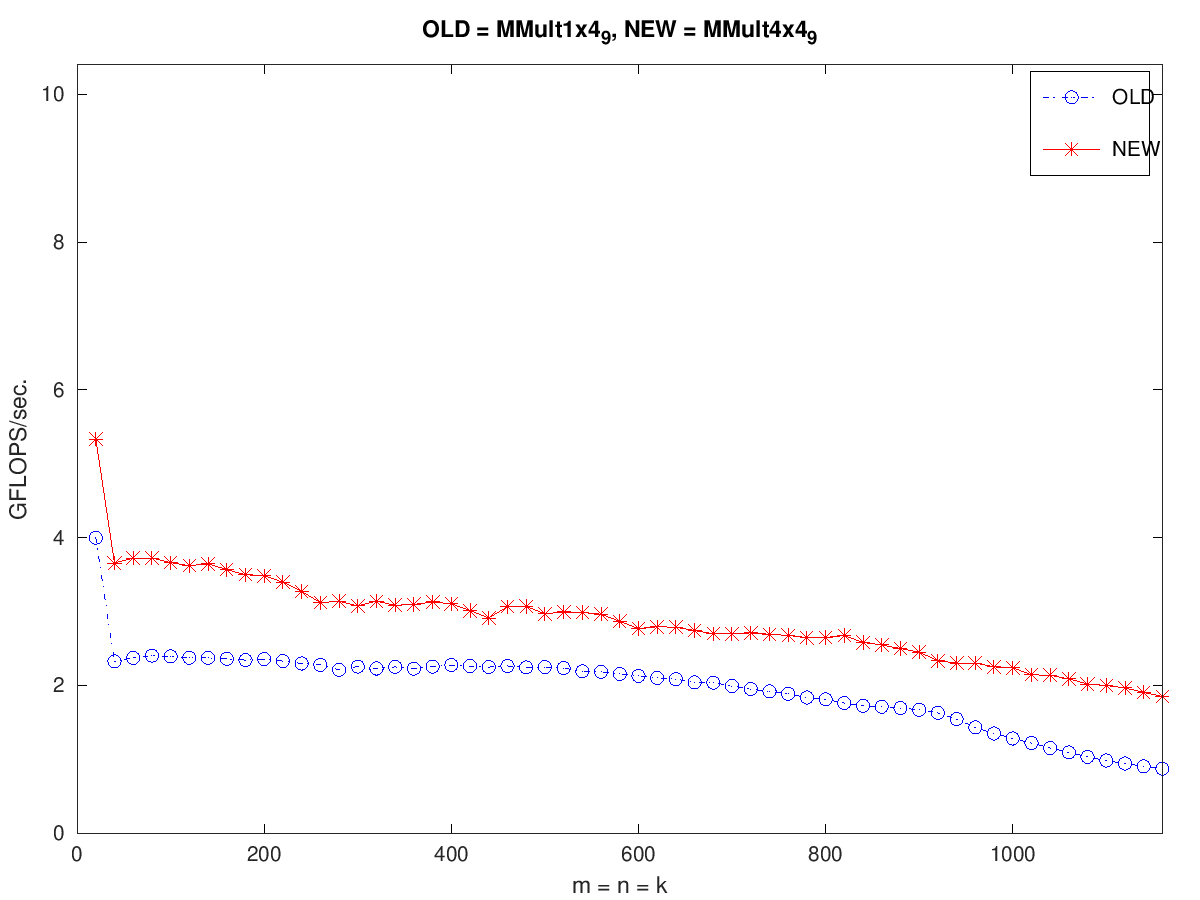
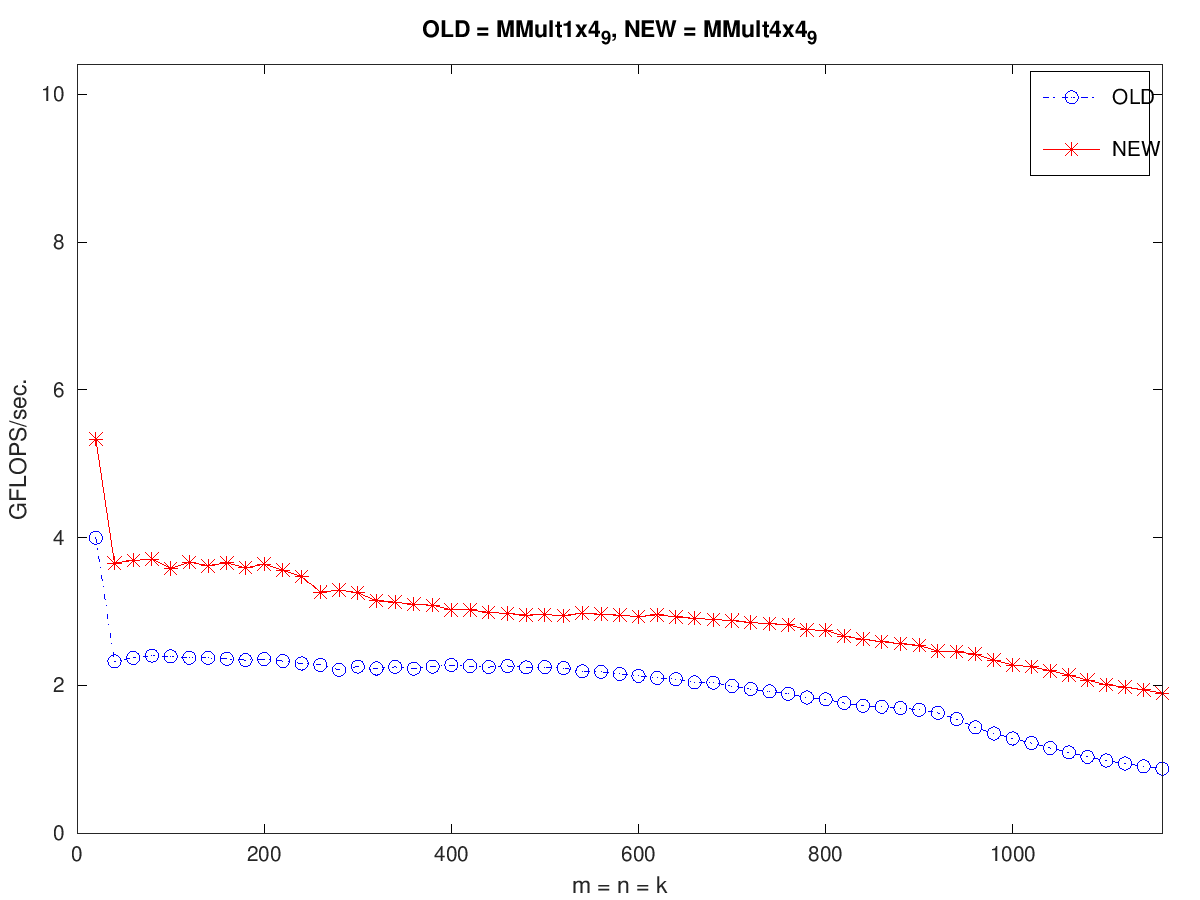
修改

diff --git a/src/output_new.m b/src/output_new.m
@@ -1,61 +1,61 @@
-version = 'MMult4x4_10';
+version = 'MMult4x4_9';
 MY_MMult = [
-20 3.200000e+00 1.776357e-15 
-40 3.121951e+00 3.108624e-15 
-60 3.272727e+00 3.552714e-15 
-80 3.357377e+00 5.773160e-15 
-100 3.210273e+00 7.105427e-15 
-120 3.297710e+00 7.105427e-15 
-140 3.377231e+00 1.065814e-14 
-160 3.301894e+00 1.332268e-14 
-180 3.259011e+00 1.243450e-14 
-200 3.262643e+00 1.421085e-14 
-220 3.169048e+00 1.421085e-14 
-240 3.099204e+00 1.598721e-14 
-260 3.079727e+00 2.486900e-14 
-280 2.969697e+00 2.131628e-14 
-300 2.992187e+00 2.131628e-14 
-320 3.002245e+00 2.309264e-14 
-340 3.044933e+00 2.486900e-14 
-360 3.046624e+00 2.309264e-14 
-380 3.035543e+00 3.197442e-14 
-400 2.961592e+00 2.486900e-14 
-420 3.017841e+00 2.842171e-14 
-440 2.969584e+00 3.375078e-14 
-460 2.968511e+00 3.552714e-14 
-480 3.018341e+00 3.907985e-14 
-500 2.819125e+00 4.618528e-14 
-520 2.981320e+00 4.263256e-14 
-540 2.995321e+00 3.907985e-14 
-560 2.979977e+00 3.907985e-14 
-580 2.953893e+00 3.552714e-14 
-600 2.952594e+00 4.263256e-14 
-620 2.943502e+00 4.085621e-14 
-640 2.944925e+00 4.796163e-14 
-660 2.911219e+00 4.973799e-14 
-680 2.909225e+00 4.618528e-14 
-700 2.857988e+00 4.440892e-14 
-720 2.837406e+00 5.151435e-14 
-740 2.803872e+00 5.151435e-14 
-760 2.804143e+00 4.973799e-14 
-780 2.763675e+00 5.684342e-14 
-800 2.750566e+00 6.394885e-14 
-820 2.722140e+00 6.394885e-14 
-840 2.688793e+00 5.684342e-14 
-860 2.657625e+00 5.684342e-14 
-880 2.622468e+00 7.105427e-14 
-900 2.608117e+00 5.684342e-14 
-920 2.556965e+00 5.684342e-14 
-940 2.455929e+00 5.684342e-14 
-960 2.394971e+00 6.750156e-14 
-980 2.355294e+00 8.526513e-14 
-1000 2.274387e+00 8.881784e-14 
-1020 2.228715e+00 1.847411e-13 
-1040 2.148136e+00 2.344791e-13 
-1060 2.059874e+00 2.344791e-13 
-1080 2.017381e+00 2.700062e-13 
-1100 1.981923e+00 2.344791e-13 
-1120 1.929706e+00 2.273737e-13 
-1140 1.908406e+00 2.664535e-13 
-1160 1.849868e+00 2.344791e-13 
+20 5.333333e+00 1.776357e-15 
+40 3.657143e+00 3.108624e-15 
+60 3.692308e+00 3.552714e-15 
+80 3.710145e+00 5.773160e-15 
+100 3.584229e+00 7.105427e-15 
+120 3.668790e+00 7.105427e-15 
+140 3.622442e+00 1.065814e-14 
+160 3.660411e+00 1.332268e-14 
+180 3.592239e+00 1.243450e-14 
+200 3.642158e+00 1.421085e-14 
+220 3.558824e+00 1.421085e-14 
+240 3.473803e+00 1.598721e-14 
+260 3.263275e+00 2.486900e-14 
+280 3.292388e+00 2.131628e-14 
+300 3.257722e+00 2.131628e-14 
+320 3.145627e+00 2.309264e-14 
+340 3.127183e+00 2.486900e-14 
+360 3.097185e+00 2.309264e-14 
+380 3.086164e+00 3.197442e-14 
+400 3.023075e+00 2.486900e-14 
+420 3.022520e+00 2.842171e-14 
+440 2.989332e+00 3.375078e-14 
+460 2.973953e+00 3.552714e-14 
+480 2.952506e+00 3.907985e-14 
+500 2.959070e+00 4.618528e-14 
+520 2.945009e+00 4.263256e-14 
+540 2.979169e+00 3.907985e-14 
+560 2.964283e+00 3.907985e-14 
+580 2.951792e+00 3.552714e-14 
+600 2.931497e+00 4.263256e-14 
+620 2.957070e+00 4.085621e-14 
+640 2.928329e+00 4.796163e-14 
+660 2.909643e+00 4.973799e-14 
+680 2.892739e+00 4.618528e-14 
+700 2.879619e+00 4.440892e-14 
+720 2.852880e+00 5.151435e-14 
+740 2.835420e+00 5.151435e-14 
+760 2.824495e+00 4.973799e-14 
+780 2.755899e+00 5.684342e-14 
+800 2.745375e+00 6.394885e-14 
+820 2.668474e+00 6.394885e-14 
+840 2.625308e+00 5.684342e-14 
+860 2.593463e+00 5.684342e-14 
+880 2.566237e+00 7.105427e-14 
+900 2.542076e+00 5.684342e-14 
+920 2.466384e+00 5.684342e-14 
+940 2.456800e+00 5.684342e-14 
+960 2.424482e+00 6.750156e-14 
+980 2.340776e+00 8.526513e-14 
+1000 2.277531e+00 8.881784e-14 
+1020 2.253277e+00 1.847411e-13 
+1040 2.200731e+00 2.344791e-13 
+1060 2.142119e+00 2.344791e-13 
+1080 2.073376e+00 2.700062e-13 
+1100 2.010917e+00 2.344791e-13 
+1120 1.978181e+00 2.273737e-13 
+1140 1.942225e+00 2.664535e-13 
+1160 1.895454e+00 2.344791e-13 
 ];

diff --git a/src/output_old.m b/src/output_old.m
@@ -1,61 +1,61 @@
-version = 'MMult4x4_9';
+version = 'MMult1x4_9';
 MY_MMult = [
-20 5.333333e+00 1.776357e-15 
-40 3.657143e+00 3.108624e-15 
-60 3.692308e+00 3.552714e-15 
-80 3.710145e+00 5.773160e-15 
-100 3.584229e+00 7.105427e-15 
-120 3.668790e+00 7.105427e-15 
-140 3.622442e+00 1.065814e-14 
-160 3.660411e+00 1.332268e-14 
-180 3.592239e+00 1.243450e-14 
-200 3.642158e+00 1.421085e-14 
-220 3.558824e+00 1.421085e-14 
-240 3.473803e+00 1.598721e-14 
-260 3.263275e+00 2.486900e-14 
-280 3.292388e+00 2.131628e-14 
-300 3.257722e+00 2.131628e-14 
-320 3.145627e+00 2.309264e-14 
-340 3.127183e+00 2.486900e-14 
-360 3.097185e+00 2.309264e-14 
-380 3.086164e+00 3.197442e-14 
-400 3.023075e+00 2.486900e-14 
-420 3.022520e+00 2.842171e-14 
-440 2.989332e+00 3.375078e-14 
-460 2.973953e+00 3.552714e-14 
-480 2.952506e+00 3.907985e-14 
-500 2.959070e+00 4.618528e-14 
-520 2.945009e+00 4.263256e-14 
-540 2.979169e+00 3.907985e-14 
-560 2.964283e+00 3.907985e-14 
-580 2.951792e+00 3.552714e-14 
-600 2.931497e+00 4.263256e-14 
-620 2.957070e+00 4.085621e-14 
-640 2.928329e+00 4.796163e-14 
-660 2.909643e+00 4.973799e-14 
-680 2.892739e+00 4.618528e-14 
-700 2.879619e+00 4.440892e-14 
-720 2.852880e+00 5.151435e-14 
-740 2.835420e+00 5.151435e-14 
-760 2.824495e+00 4.973799e-14 
-780 2.755899e+00 5.684342e-14 
-800 2.745375e+00 6.394885e-14 
-820 2.668474e+00 6.394885e-14 
-840 2.625308e+00 5.684342e-14 
-860 2.593463e+00 5.684342e-14 
-880 2.566237e+00 7.105427e-14 
-900 2.542076e+00 5.684342e-14 
-920 2.466384e+00 5.684342e-14 
-940 2.456800e+00 5.684342e-14 
-960 2.424482e+00 6.750156e-14 
-980 2.340776e+00 8.526513e-14 
-1000 2.277531e+00 8.881784e-14 
-1020 2.253277e+00 1.847411e-13 
-1040 2.200731e+00 2.344791e-13 
-1060 2.142119e+00 2.344791e-13 
-1080 2.073376e+00 2.700062e-13 
-1100 2.010917e+00 2.344791e-13 
-1120 1.978181e+00 2.273737e-13 
-1140 1.942225e+00 2.664535e-13 
-1160 1.895454e+00 2.344791e-13 
+20 4.000000e+00 1.776357e-15 
+40 2.327273e+00 3.108624e-15 
+60 2.373626e+00 3.552714e-15 
+80 2.403756e+00 5.773160e-15 
+100 2.395210e+00 7.105427e-15 
+120 2.375258e+00 7.105427e-15 
+140 2.373702e+00 1.065814e-14 
+160 2.360127e+00 1.332268e-14 
+180 2.344051e+00 1.243450e-14 
+200 2.358491e+00 1.421085e-14 
+220 2.330998e+00 1.421085e-14 
+240 2.298254e+00 1.598721e-14 
+260 2.279489e+00 2.486900e-14 
+280 2.211677e+00 2.131628e-14 
+300 2.256582e+00 2.131628e-14 
+320 2.230937e+00 2.309264e-14 
+340 2.252185e+00 2.486900e-14 
+360 2.227761e+00 2.309264e-14 
+380 2.254998e+00 3.197442e-14 
+400 2.277783e+00 2.486900e-14 
+420 2.263784e+00 2.842171e-14 
+440 2.249379e+00 3.375078e-14 
+460 2.264233e+00 3.552714e-14 
+480 2.244657e+00 3.907985e-14 
+500 2.248707e+00 4.618528e-14 
+520 2.234888e+00 4.263256e-14 
+540 2.192695e+00 3.907985e-14 
+560 2.185774e+00 3.907985e-14 
+580 2.157078e+00 3.552714e-14 
+600 2.131649e+00 4.263256e-14 
+620 2.102251e+00 4.085621e-14 
+640 2.085764e+00 4.796163e-14 
+660 2.042898e+00 4.973799e-14 
+680 2.037975e+00 4.618528e-14 
+700 1.993537e+00 4.440892e-14 
+720 1.952690e+00 5.151435e-14 
+740 1.920707e+00 5.151435e-14 
+760 1.888191e+00 4.973799e-14 
+780 1.838052e+00 5.684342e-14 
+800 1.813285e+00 6.394885e-14 
+820 1.763170e+00 6.394885e-14 
+840 1.726719e+00 5.684342e-14 
+860 1.712892e+00 5.684342e-14 
+880 1.695023e+00 7.105427e-14 
+900 1.671627e+00 5.684342e-14 
+920 1.631351e+00 5.684342e-14 
+940 1.545910e+00 5.684342e-14 
+960 1.433026e+00 6.750156e-14 
+980 1.351262e+00 8.526513e-14 
+1000 1.283526e+00 8.881784e-14 
+1020 1.221359e+00 1.847411e-13 
+1040 1.153824e+00 2.344791e-13 
+1060 1.094603e+00 2.344791e-13 
+1080 1.034838e+00 2.700062e-13 
+1100 9.856616e-01 2.344791e-13 
+1120 9.447117e-01 2.273737e-13 
+1140 9.056189e-01 2.664535e-13 
+1160 8.739580e-01 2.344791e-13 
 ];
